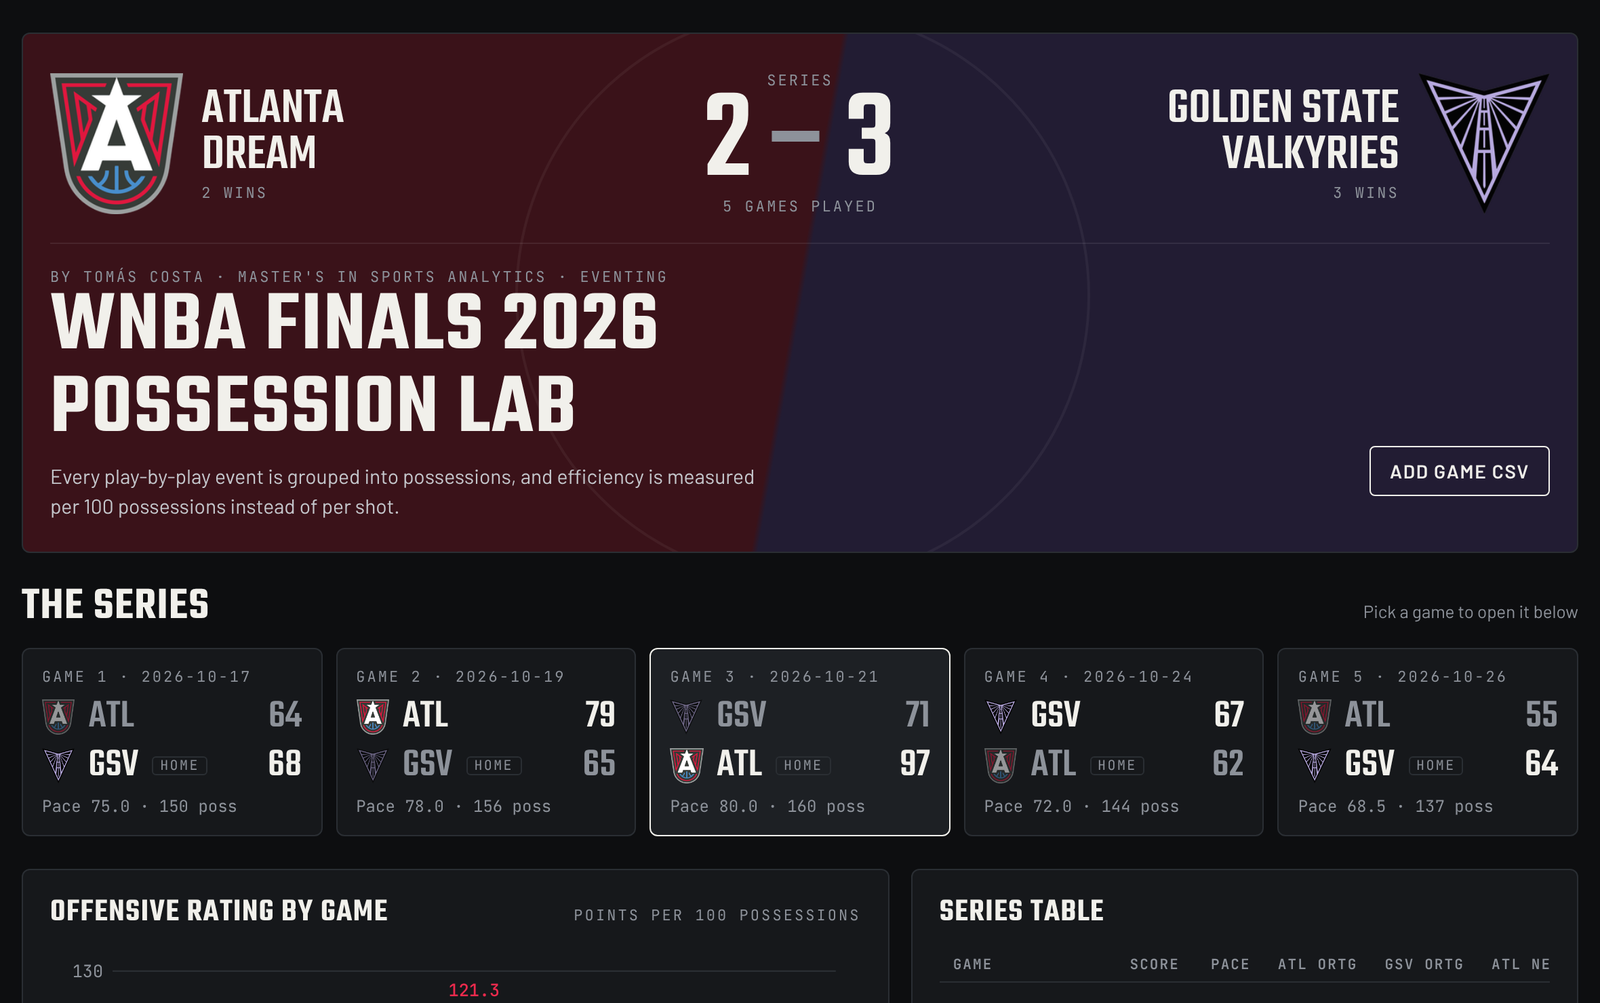
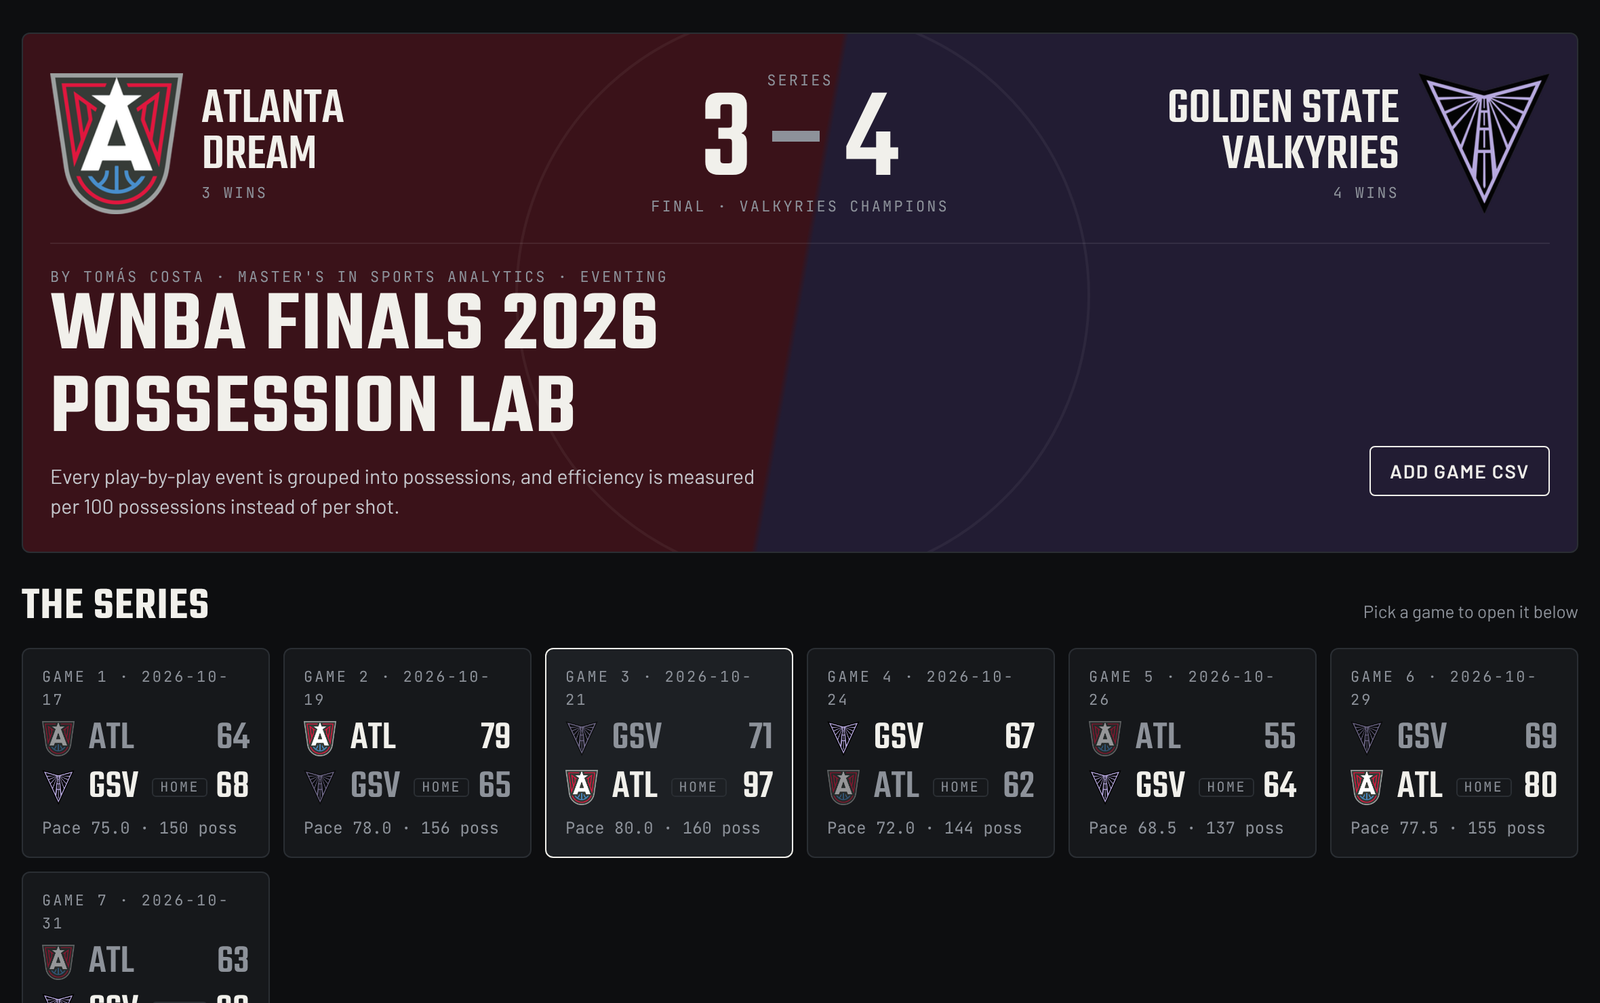
Add files via upload

diff --git a/finals-pace.html b/finals-pace.html
@@ -2,9 +2,9 @@
 <html lang="en"><head>
 <meta charset="utf-8"><meta name="viewport" content="width=device-width,initial-scale=1">
 <title>We Built a Possession Lab for the WNBA Finals — and It Says Pace Decides the Series · The W Lab</title>
-<meta name="description" content="An interactive tool that rebuilds every possession of Dream vs Valkyries from the official play-by-play. After 610 possessions, one number keeps deciding a 2–2 series: pace.">
+<meta name="description" content="An interactive tool that rebuilds every possession of Dream vs Valkyries from the official play-by-play. 1,045 possessions, seven games, one number that decided them all: pace.">
 <meta property="og:title" content="We Built a Possession Lab for the WNBA Finals — and It Says Pace Decides the Series">
-<meta property="og:description" content="An interactive tool that rebuilds every possession of Dream vs Valkyries from the official play-by-play. After 610 possessions, one number keeps deciding a 2–2 series: pace.">
+<meta property="og:description" content="An interactive tool that rebuilds every possession of Dream vs Valkyries from the official play-by-play. 1,045 possessions, seven games, one number that decided them all: pace.">
 <meta property="og:image" content="https://thewlab.github.io/the-w-lab/finals_pace_cover.png">
 <meta name="author" content="Tomás Costa">
 <link rel="icon" href="logo.png">
@@ -31,9 +31,9 @@
   <div class="crumbs"><a href="index.html">Home</a><span>/</span><a href="index.html#analysis">Analysis</a><span>/</span><span>WNBA Finals</span></div>
   <div class="pills"><span>WNBA Finals</span><span>Analysis</span><span>Tool</span></div>
   <h1>We Built a Possession Lab for the WNBA Finals — and It Says Pace Decides the Series</h1>
-  <p class="dek">An interactive tool that rebuilds every possession of Dream vs Valkyries from the official play-by-play. After 610 possessions, one number keeps deciding a 2–2 series: pace.</p>
+  <p class="dek">An interactive tool that rebuilds every possession of Dream vs Valkyries from the official play-by-play. 1,045 possessions, seven games, one number that decided them all: pace.</p>
   <div class="byline">
-    <div class="author"><img src="avatar.png" alt=""><div><b>Tomás Costa</b><span>26 Oct 2026 · Updated 27 Oct · <span id="readtime"></span></span></div></div>
+    <div class="author"><img src="avatar.png" alt=""><div><b>Tomás Costa</b><span>26 Oct 2026 · Updated 1 Nov · <span id="readtime"></span></span></div></div>
     <div class="share"><button class="btn line sm" id="copylink" type="button">Copy link</button><a class="btn line sm" href="https://instagram.com/the.w.lab" target="_blank" rel="noopener">Instagram</a></div>
   </div>
 </div></section>
@@ -42,8 +42,8 @@
 
 <div class="a-layout wrap">
   <article class="a-body">
-    <div class="glance-m box"><h4>At a glance</h4><div class="glance"><div><b>747</b><span>possessions rebuilt from the official play-by-play (Games 1–5)</span></div><div><b>42</b><span>points per 100 possessions between Atlanta's best and worst game</span></div><div><b>3–0</b><span>Golden State's record when the pace stays below 76</span></div></div></div>
-<div class="callout"><p><strong>Update · 27 Oct, after Game 5 — Valkyries 64, Dream 55. Golden State leads 3–2.</strong> This article was written before Game 5 and named three numbers to watch. All three went Golden State's way: the pace was <strong>68.5</strong>, the slowest game of the series; the Valkyries turned it over on just <strong>13.2%</strong> of their possessions (9 turnovers) while Atlanta gave it away on <strong>24.6%</strong>; and Atlanta's eFG% fell to <strong>33.8%</strong>, its lowest of the Finals (79.7 points per 100 possessions). Golden State is now <strong>3–0</strong> when the pace stays below 76. The Possession Lab below already includes Game 5. Game 6 is Thursday in Atlanta.</p></div>
+    <div class="glance-m box"><h4>At a glance</h4><div class="glance"><div><b>1,045</b><span>possessions rebuilt from the official play-by-play (all 7 games)</span></div><div><b>42</b><span>points per 100 possessions between Atlanta's best and worst game</span></div><div><b>4–0</b><span>Golden State's record when the pace stays below 76</span></div></div></div>
+<div class="callout"><p><strong>Final update · 1 Nov — Golden State Valkyries are the 2026 WNBA champions, 4–3.</strong> This article was written before Game 5, with the series tied 2–2. The rule it pointed to held for all seven games: <strong>Golden State won the four games played below 76 possessions</strong> (75, 72, 68.5, 71.5) and <strong>Atlanta the three above</strong> (78, 80, 77.5). Game 6 was fast (77.5) and Atlanta won 80–69 with a 54% eFG; Game 7 was slow again (71.5) and Golden State closed it 68–63, with 30 points from Gabby Williams. One thing did move: through Game 5 Atlanta scored 1.11 points per shot in the first 7 seconds of a possession; in Game 7 its 14 early shots produced only 0.43. The Possession Lab below now includes all seven games.</p></div>
 <p>Four games in, the WNBA Finals are level. Golden State took Game 1 by four. Atlanta answered with a 14-point win and then a 26-point blowout. Golden State tied it again on Saturday, 67–62.</p>
 <p>The scorelines look random. They aren't. Once you stop counting points and start counting <strong>possessions</strong>, the series has a very clear shape — and one variable that keeps deciding which way it goes.</p>
 <p>To see it, I built a tool: the <strong>WNBA Finals Possession Lab</strong>. It takes the official play-by-play, rebuilds every possession of the series and measures both teams per 100 possessions. You can explore it yourself further down this page.</p>
@@ -80,7 +80,9 @@
 <tr><td>G2</td><td>78</td><td>24.7%</td><td>17.7%</td><td>39.5%</td><td>ATL 79–65</td></tr>
 <tr><td>G3</td><td>80</td><td>21.3%</td><td>12.5%</td><td>55.8%</td><td>ATL 97–71</td></tr>
 <tr><td>G4</td><td>72</td><td>12.5%</td><td>25.0%</td><td>37.0%</td><td>GSV 67–62</td></tr>
-<tr><td>G5 <span class="mono">(new)</span></td><td>68.5</td><td>13.2%</td><td>24.6%</td><td>33.8%</td><td>GSV 64–55</td></tr>
+<tr><td>G5</td><td>68.5</td><td>13.2%</td><td>24.6%</td><td>33.8%</td><td>GSV 64–55</td></tr>
+<tr><td>G6 <span class="mono">(new)</span></td><td>77.5</td><td>14.1%</td><td>19.5%</td><td>54.0%</td><td>ATL 80–69</td></tr>
+<tr><td>G7 <span class="mono">(new)</span></td><td>71.5</td><td>15.3%</td><td>16.9%</td><td>37.7%</td><td>GSV 68–63</td></tr>
 </tbody></table>
 <p><strong>When Golden State protects the ball, Golden State wins.</strong> In its two wins, the Valkyries turned it over on 13.3% and 12.5% of their possessions. In their two losses, that jumped to 24.7% and 21.3% — roughly one possession in every four or five handed straight to Atlanta.</p>
 <p>Game 4 is the flip side. This time it was <strong>Atlanta</strong> that couldn't hold on to it: 18 turnovers, a 25% rate, and the slowest game of the series. Even with a free-throw rate above 50%, the Dream couldn't get their offense going.</p>
@@ -130,7 +132,7 @@
 
   </article>
   <aside class="a-side"><div class="stick">
-    <div class="box"><h4>At a glance</h4><div class="glance"><div><b>747</b><span>possessions rebuilt from the official play-by-play (Games 1–5)</span></div><div><b>42</b><span>points per 100 possessions between Atlanta's best and worst game</span></div><div><b>3–0</b><span>Golden State's record when the pace stays below 76</span></div></div></div>
+    <div class="box"><h4>At a glance</h4><div class="glance"><div><b>1,045</b><span>possessions rebuilt from the official play-by-play (all 7 games)</span></div><div><b>42</b><span>points per 100 possessions between Atlanta's best and worst game</span></div><div><b>4–0</b><span>Golden State's record when the pace stays below 76</span></div></div></div>
     <div class="box"><h4>In this article</h4><nav class="toc" id="toc"></nav></div>
     <div class="box toolbox"><h4>Interactive tool</h4><p>Explore every possession of the Finals yourself.</p><a class="btn sm" href="https://tomascosta7.github.io/wnba-finals-possession-lab/" target="_blank" rel="noopener">Open the Possession Lab →</a></div>
   </div></aside>

diff --git a/index.html b/index.html
@@ -161,7 +161,7 @@ a:focus-visible,button:focus-visible{outline:2px solid var(--rasp);outline-offse
       <div class="txt">
         <div class="badge"><span>New</span><span class="ghost">Analysis + Tool</span><span class="ghost">WNBA Finals 2026</span></div>
         <h1>We Built a Possession Lab for the WNBA Finals — and It Says Pace Decides the Series</h1>
-        <p>An interactive tool that rebuilds every possession of Dream vs Valkyries from the official play-by-play. After 747 possessions, one number keeps deciding the series: pace. Now updated after Game 5.</p>
+        <p>An interactive tool that rebuilds every possession of Dream vs Valkyries from the official play-by-play. 1,045 possessions, seven games, and one number that decided every one of them: pace. Final, all seven games.</p>
         <div class="ctas"><span class="btn">Read the analysis →</span><span class="btn line" onclick="event.preventDefault();window.open('https://tomascosta7.github.io/wnba-finals-possession-lab/','_blank')">Open the tool</span></div>
         <span class="meta">Tomás Costa · 26 Oct 2026 · 8 min read</span>
       </div>
@@ -183,9 +183,9 @@ a:focus-visible,button:focus-visible{outline:2px solid var(--rasp);outline-offse
       </div>
       <div class="stat">
         <span class="kicker">Stat of the series</span>
-        <div class="n">3–0</div>
-        <p>Golden State's record when the pace stays <b>below 76</b> possessions per 40 minutes. Above it, Atlanta is 2–0.</p>
-        <svg class="pacebars" viewBox="0 0 400 168" role="img" aria-label="Pace by game: 75, 78, 80, 72, 68.5; series average 74.7"><rect x="0" y="63.5" width="64" height="76.5" rx="5" fill="var(--gsv)"/><text x="32" y="55.5" text-anchor="middle" class="v">75</text><text x="32" y="160" text-anchor="middle" class="g">G1</text><rect x="84" y="38.0" width="64" height="102.0" rx="5" fill="var(--atl)"/><text x="116" y="30.0" text-anchor="middle" class="v">78</text><text x="116" y="160" text-anchor="middle" class="g">G2</text><rect x="168" y="21.0" width="64" height="119.0" rx="5" fill="var(--atl)"/><text x="200" y="13.0" text-anchor="middle" class="v">80</text><text x="200" y="160" text-anchor="middle" class="g">G3</text><rect x="252" y="89.0" width="64" height="51.0" rx="5" fill="var(--gsv)"/><text x="284" y="81.0" text-anchor="middle" class="v">72</text><text x="284" y="160" text-anchor="middle" class="g">G4</text><rect x="336" y="118.8" width="64" height="21.2" rx="5" fill="var(--gsv)"/><text x="368" y="110.8" text-anchor="middle" class="v">68.5</text><text x="368" y="160" text-anchor="middle" class="g">G5</text><line x1="0" x2="400" y1="66.0" y2="66.0" stroke="var(--rasp)" stroke-width="1.5" stroke-dasharray="5 4"/><text x="398" y="60.0" text-anchor="end" class="a">avg 74.7</text><line x1="0" x2="400" y1="140" y2="140" stroke="var(--border)"/></svg>
+        <div class="n">4–0</div>
+        <p>Golden State's record when the pace stayed <b>below 76</b> possessions per 40 minutes. Above it, Atlanta went 3–0. Seven games, seven hits.</p>
+        <svg class="pacebars" viewBox="0 0 400 168" role="img" aria-label="Pace by game: 75, 78, 80, 72, 68.5, 77.5, 71.5; line at 76"><rect x="0.0" y="63.5" width="46" height="76.5" rx="4" fill="var(--gsv)"/><text x="23.0" y="56.5" text-anchor="middle" class="v">75</text><text x="23.0" y="160" text-anchor="middle" class="g">G1</text><rect x="59.0" y="38.0" width="46" height="102.0" rx="4" fill="var(--atl)"/><text x="82.0" y="31.0" text-anchor="middle" class="v">78</text><text x="82.0" y="160" text-anchor="middle" class="g">G2</text><rect x="118.0" y="21.0" width="46" height="119.0" rx="4" fill="var(--atl)"/><text x="141.0" y="14.0" text-anchor="middle" class="v">80</text><text x="141.0" y="160" text-anchor="middle" class="g">G3</text><rect x="177.0" y="89.0" width="46" height="51.0" rx="4" fill="var(--gsv)"/><text x="200.0" y="82.0" text-anchor="middle" class="v">72</text><text x="200.0" y="160" text-anchor="middle" class="g">G4</text><rect x="236.0" y="118.8" width="46" height="21.2" rx="4" fill="var(--gsv)"/><text x="259.0" y="111.8" text-anchor="middle" class="v">68.5</text><text x="259.0" y="160" text-anchor="middle" class="g">G5</text><rect x="295.0" y="42.2" width="46" height="97.8" rx="4" fill="var(--atl)"/><text x="318.0" y="35.2" text-anchor="middle" class="v">77.5</text><text x="318.0" y="160" text-anchor="middle" class="g">G6</text><rect x="354.0" y="93.2" width="46" height="46.8" rx="4" fill="var(--gsv)"/><text x="377.0" y="86.2" text-anchor="middle" class="v">71.5</text><text x="377.0" y="160" text-anchor="middle" class="g">G7</text><line x1="0" x2="400" y1="55.0" y2="55.0" stroke="var(--rasp)" stroke-width="1.5" stroke-dasharray="5 4"/><text x="398" y="49.0" text-anchor="end" class="a">76</text><line x1="0" x2="400" y1="140" y2="140" stroke="var(--border)"/></svg>
         <div class="legend"><span><i style="background:var(--atl)"></i>Atlanta win</span><span><i style="background:var(--gsv)"></i>Golden State win</span></div>
         <a href="finals-pace.html">See the numbers →</a>
       </div>
@@ -229,7 +229,7 @@ a:focus-visible,button:focus-visible{outline:2px solid var(--rasp);outline-offse
         <div class="th"><img src="finals_pace_thumb.png" alt=""></div>
         <div class="bd"><div class="tags"><span>WNBA</span><span>Tool</span></div>
           <h3>We Built a Possession Lab for the WNBA Finals — and It Says Pace Decides the Series</h3>
-          <p>747 possessions, one number that keeps deciding the series. Updated after Game 5.</p>
+          <p>1,045 possessions, seven games, one number that decided them all.</p>
           <span class="meta">26 Oct 2026</span></div>
       </a>
       <a class="card" href="talent-pipeline.html" data-tags="europe">
@@ -285,10 +285,17 @@ const w={ATL:0,GSV:0};SERIES.results.forEach(r=>w[r.slice(0,3)]++);
 document.getElementById('trkScore').innerHTML=`${w.ATL}<span>–</span>${w.GSV}`;
 document.getElementById('atlW').textContent=`${w.ATL} wins`;document.getElementById('gsvW').textContent=`${w.GSV} wins`;
 document.getElementById('trkGames').innerHTML=SERIES.results.map((r,i)=>`<span class="${r.slice(0,3).toLowerCase()}">G${i+1} ${r}</span>`).join('');
-document.getElementById('trkStatus').textContent=w.ATL===4||w.GSV===4?'Series over':`${SERIES.results.length} games played`;
+document.getElementById('trkStatus').textContent=w.ATL===4||w.GSV===4?'Final':`${SERIES.results.length} games played`;
+const cd=document.getElementById('cd');
+if(!SERIES.next){
+  document.getElementById('nxtLabel').textContent='Champions';
+  document.getElementById('nxtGame').textContent=SERIES.champion.team;
+  document.getElementById('nxtWhere').textContent=SERIES.champion.line;
+  cd.innerHTML='<div><b>FINAL</b><small>4–3</small></div>';
+} else {
 document.getElementById('nxtGame').textContent=SERIES.next.label;
 document.getElementById('nxtWhere').textContent=SERIES.next.where;
-const tip=new Date(SERIES.next.tipoff), cd=document.getElementById('cd');
+const tip=new Date(SERIES.next.tipoff);
 function tick(){
   const s=Math.floor((tip-new Date())/1000);
   if(s<=0){cd.innerHTML='<div><b>LIVE</b><small>OR FINAL</small></div>';document.getElementById('nxtLabel').textContent='Now';return;}
@@ -296,6 +303,7 @@ function tick(){
   cd.innerHTML=[[d,'DAYS'],[h,'HRS'],[m,'MIN'],[x,'SEC']].filter((v,i)=>i>0||v[0]>0).map(([v,l])=>`<div><b>${String(v).padStart(2,'0')}</b><small>${l}</small></div>`).join('');
 }
 tick();setInterval(tick,1000);
+}
 
 // filters
 document.querySelectorAll('.chip').forEach(c=>c.addEventListener('click',()=>{

diff --git a/site.js b/site.js
@@ -8,23 +8,24 @@
    ===================================================================== */
 window.WLAB = {
   TICKER: [
-    "<b>WNBA Finals</b> · Valkyries lead <em>3–2</em>",
-    "<b>Game 5</b> · Valkyries 64–55 Dream · pace <em>68.5</em>, slowest of the series",
-    "<b>Game 6</b> · Valkyries at Dream · Atlanta · Thu 29 Oct · 8pm ET",
-    "Golden State is <em>3–0</em> when the pace stays below 76",
-    "<b>Game 3</b> · Dream 97–71 Valkyries · Atlanta offense <em>121.3</em> per 100",
-    "<b>New on The W Lab</b> · We built a Possession Lab for the Finals",
+    "<b>Golden State Valkyries</b> · 2026 WNBA champions · <em>4–3</em>",
+    "<b>Game 7</b> · Valkyries 68–63 Dream · pace <em>71.5</em>",
+    "Pace decided all <em>7</em> games: Golden State <em>4–0</em> below 76, Atlanta <em>3–0</em> above",
+    "<b>Gabby Williams</b> · <em>30</em> points in Game 7",
+    "<b>Game 6</b> · Dream 80–69 Valkyries · Atlanta eFG <em>54%</em>",
+    "<b>New on The W Lab</b> · Possession Lab and Shot Lab, all seven games",
     "<b>Kelsey Plum</b> · <em>65.2%</em> True Shooting, best among the top 10 scorers",
     "<b>Spain</b> · <em>10</em> U20 Women's EuroBasket titles in 22 editions"
   ],
   SERIES: {
-    results: ["GSV 68–64","ATL 79–65","ATL 97–71","GSV 67–62","GSV 64–55"],
-    next: { label:"Game 6", where:"Valkyries at Dream · Atlanta", tipoff:"2026-10-30T00:00:00Z" } // 8pm ET Thu 29 Oct
+    results: ["GSV 68–64","ATL 79–65","ATL 97–71","GSV 67–62","GSV 64–55","ATL 80–69","GSV 68–63"],
+    next: null, // series over
+    champion: { team:"Golden State Valkyries", line:"Won 4–3 · Game 7 at Chase Center, 31 Oct" }
   },
   ARTICLES: [
     { slug:"finals-pace", href:"finals-pace.html", img:"finals_pace_thumb.png", tags:["WNBA","Tool"], date:"26 Oct 2026",
       title:"We Built a Possession Lab for the WNBA Finals — and It Says Pace Decides the Series",
-      dek:"747 possessions, one number that keeps deciding the series. Updated after Game 5." },
+      dek:"1,045 possessions, seven games, one number that decided them all." },
     { slug:"talent-pipeline", href:"talent-pipeline.html", img:"U20W_pipeline_04.png", tags:["Europe","FIBA"], date:"3 Jul 2026",
       title:"Produced, Not Promised: What 25 Years of U20 Medals Say About Senior Success",
       dek:"Does dominating Europe's youth game predict anything at senior level?" },
@@ -45,7 +46,7 @@ window.WLAB = {
   // ticker
   const t=$('#wl-ticker');
   if(t){const items=W.TICKER.map(x=>`<span class="item">${x}</span>`).join('');
-    t.outerHTML=`<div class="ticker" aria-label="Latest"><div class="live"><i></i>Live · Finals</div><div class="track"><div class="belt">${items}${items}</div></div></div>`;}
+    t.outerHTML=`<div class="ticker" aria-label="Latest"><div class="live"><i></i>WNBA Finals</div><div class="track"><div class="belt">${items}${items}</div></div></div>`;}
 
   // header
   const h=$('#wl-header');
